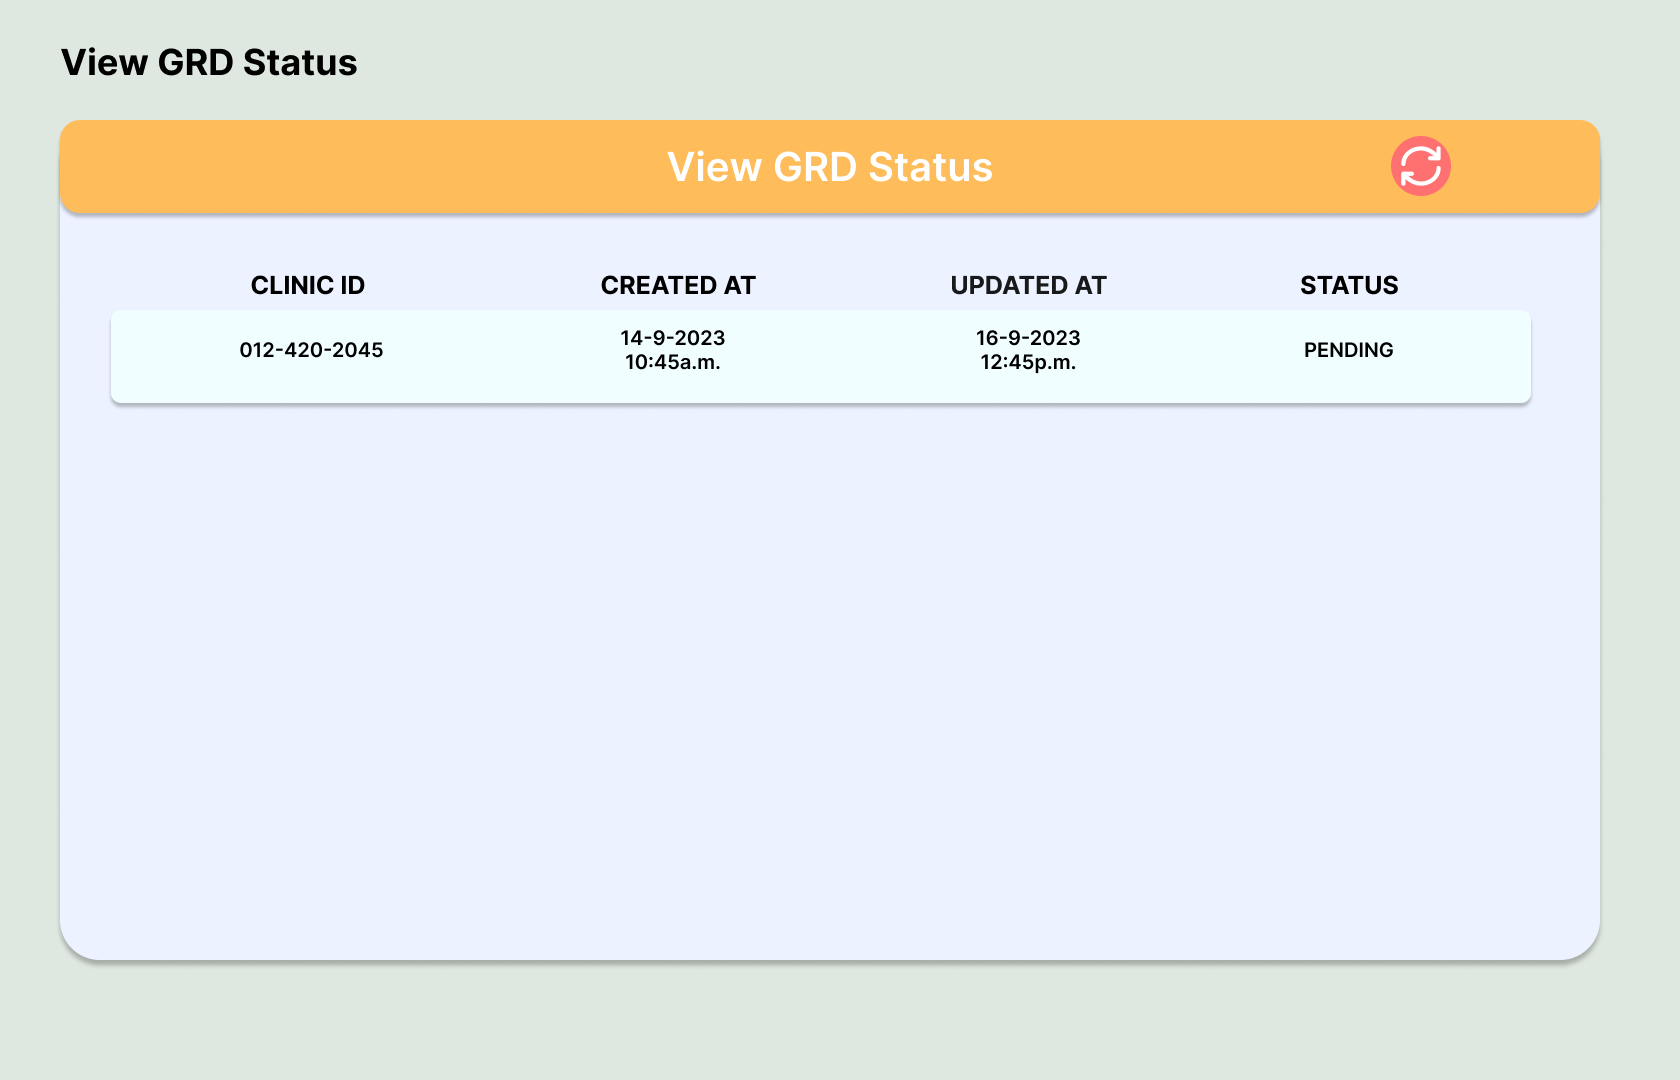
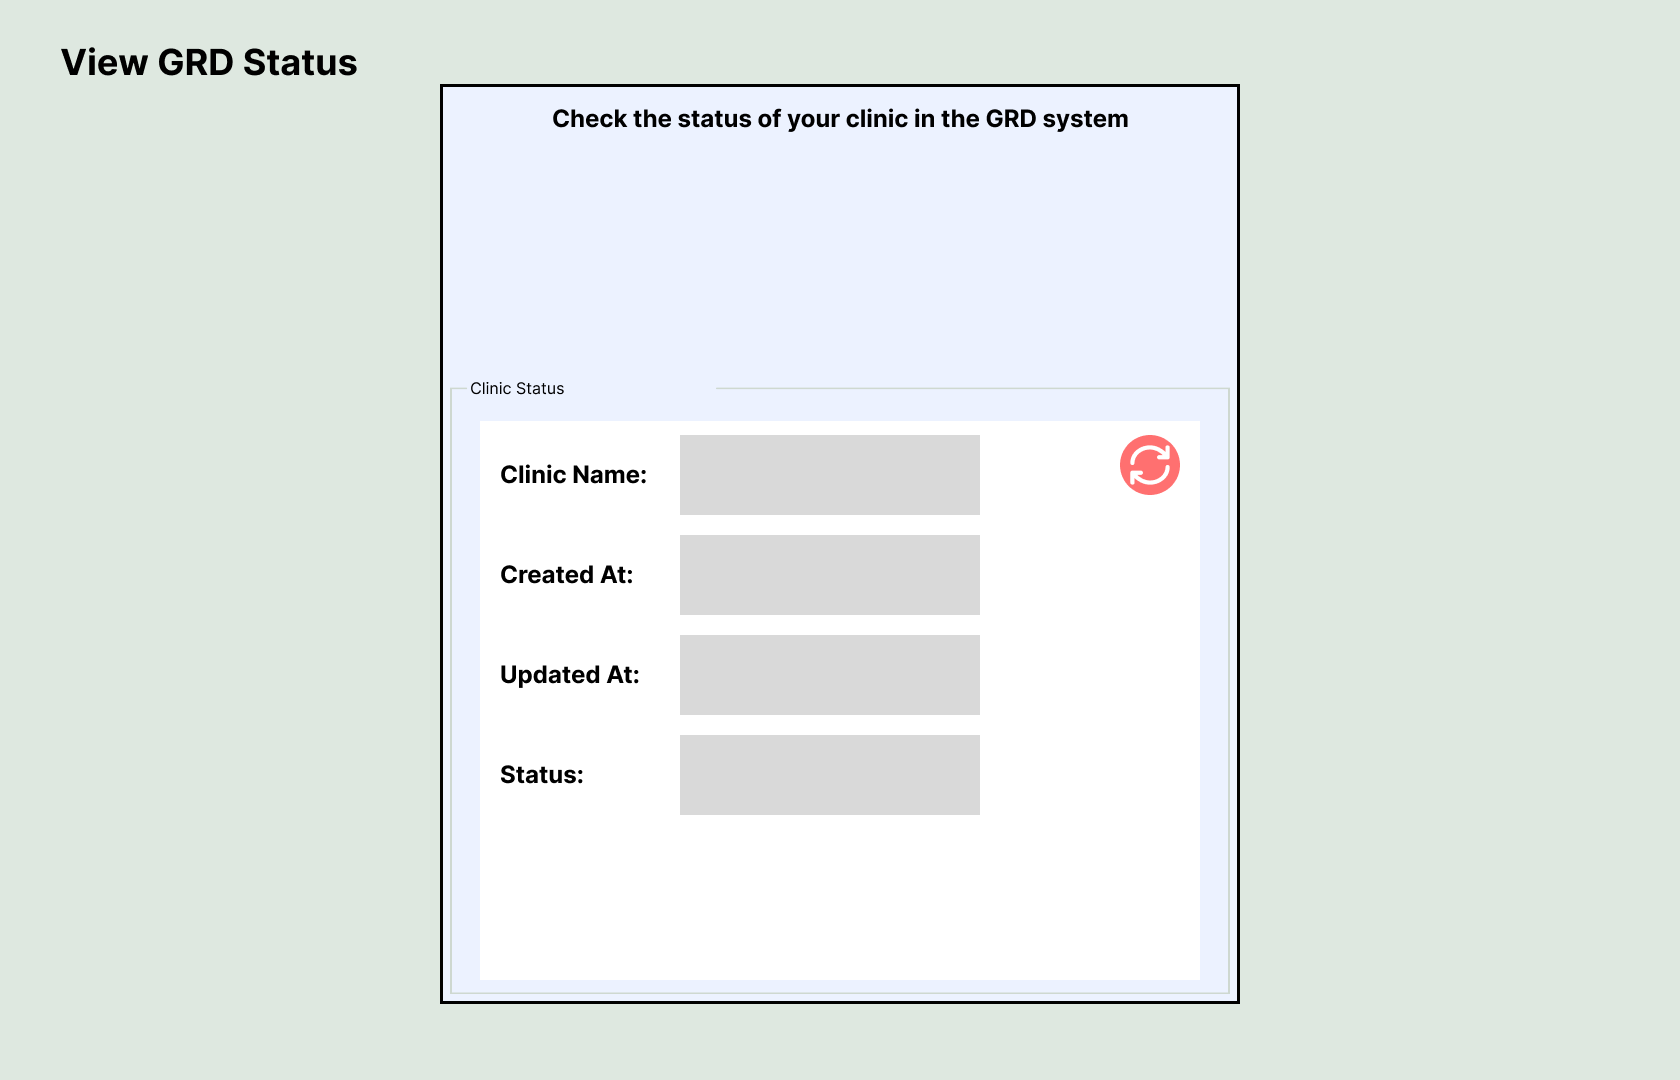
enabled clinic admin grd requests function

diff --git a/views/clinicRequests/adminGRDRequests.py b/views/clinicRequests/adminGRDRequests.py
@@ -30,6 +30,7 @@ class AdminGRDRequest(Frame):
         self.prisma = self.controller.mainPrisma
         self.createFrames()
         self.createElements()
+        self.loadClinicRequestStatus()
 
     def createFrames(self):
         pass
@@ -40,34 +41,94 @@ class AdminGRDRequest(Frame):
             x=0, y=0, classname="grdrequestsbg", root=self
         )
 
+        
+
         self.controller.buttonCreator(
             ipath="assets/Dashboard/ClinicAdminAssets/adminrefreshbtn.png",
-            x=1391, y=136, classname="grdrequestsrefresh", root=self, 
+            x=680+440, y=351+84, classname="grdrequestsrefresh", root=self, 
             buttonFunction=lambda:print("refresh grd requests"), isPlaced=True
         )
 
-        exampleList = []
-        [exampleList.append("Thing " + str(i))
-         for i in range(30) if i % 2 == 0]
-        h = len(exampleList) * 120
-        if h < 600:
-            h = 600
-        self.exampleScrolledFrame = ScrolledFrame(
-            master=self, width=1420, height=h, autohide=True, bootstyle="officer-bg"
-        )
-        self.exampleScrolledFrame.grid_propagate(False)
-        self.exampleScrolledFrame.place(x=100, y=310, width=1450, height=620)
-        initialcoordinates = (20,20)
-        for request in exampleList:
-            x = initialcoordinates[0]
-            y = initialcoordinates[1]
-            self.controller.textElement(
-                ipath=r"assets/Dashboard/ClinicAdminAssets/admingrdrequestsbg.png", x=x, y=y,
-                classname=f"request{request}", root=self.exampleScrolledFrame,
-                text=request, size=30, font=INTER,
-                isPlaced=True,
-            )
+        
 
-            initialcoordinates = (
-                initialcoordinates[0], initialcoordinates[1] + 120
-            )
+    def loadClinicRequestStatus(self):
+        prisma = self.prisma
+        self.clinicstatusdetails = prisma.clinicenrolment.find_first(
+            where={
+                "clinicId": "clo8tu3kq0003tkvgihvp739t",
+            },
+            include={
+                "govRegDocSystem": True,
+                 "clinic": True,
+            },    
+        )
+
+        clinicName = self.clinicstatusdetails.clinic.name
+        createdAt = datetime.strptime(str(self.clinicstatusdetails.createdAt)[:19], '%Y-%m-%d %H:%M:%S')
+        updatedAt = datetime.strptime(str(self.clinicstatusdetails.updatedAt)[:19], '%Y-%m-%d %H:%M:%S')
+        status = self.clinicstatusdetails.status
+
+        self.controller.textElement(
+            ipath="assets/Dashboard/ClinicAdminAssets/clinicstatusfields.png",
+            x=240+440, y=351+84, classname="grdstatusclinicname", root=self,
+            text=clinicName, size=22, font=INTER,
+            isPlaced=True
+        )
+
+        self.controller.textElement(
+            ipath="assets/Dashboard/ClinicAdminAssets/clinicstatusfields.png",
+            x=240+440, y=451+84, classname="grdstatuscreatedat", root=self,
+            text=str(createdAt), size=22, font=INTER,
+            isPlaced=True
+        )
+
+        self.controller.textElement(
+            ipath="assets/Dashboard/ClinicAdminAssets/clinicstatusfields.png",
+            x=240+440, y=551+84, classname="grdstatusupdatedat", root=self,
+            text=str(updatedAt), size=22, font=INTER,
+            isPlaced=True
+        )
+
+        self.controller.textElement(
+            ipath="assets/Dashboard/ClinicAdminAssets/clinicstatusfields.png",
+            x=240+440, y=651+84, classname="grdstatustext", root=self,
+            text=status, size=22, font=INTER,
+            isPlaced=True
+        )
+
+        if status == "ACCEPTED":
+            statusimg = "assets/Dashboard/ClinicAdminAssets/clinicaccepted.png"
+            statustext="Request accepted"
+            statusdes="Your GRD request has been accepted.\nYou can now add doctors to your clinic."
+
+        elif status == "REJECTED":
+            statusimg="assets\Dashboard\ClinicAdminAssets\clinicrejected.png"
+            statustext="Request rejected"
+            statusdes="Your GRD request has been rejected.\nPlease contact the GRD for more info."
+
+        else: 
+            statusimg="assets\Dashboard\ClinicAdminAssets\clinicpending.png"
+            statustext="Request pending"
+            statusdes="Your GRD request is still pending. Check\nback again later for updates."
+
+        self.grdrequeststatus = self.controller.labelCreator(
+            ipath=statusimg,
+            x=350+440, y=77+84, classname="grdrequeststatus", root=self, isPlaced=True
+        )
+
+        self.grdstatustext = self.controller.textElement(
+            ipath="assets/Dashboard/ClinicAdminAssets/requeststatustextbg.png",
+            x=290+440, y=177+84, classname="grdstatus",text=statustext, 
+            size=24, font=INTERBOLD,
+            root=self, isPlaced=True,
+            xoffset=-0.5
+        )
+
+        self.grdstatusdesc = self.controller.textElement(
+            ipath="assets/Dashboard/ClinicAdminAssets/requeststatusdesc.png",
+            x=182+440, y=220+84, classname="grdstatusdesc",
+            text=statusdes,
+            size=22, font=INTER,
+            root=self, isPlaced=True,
+            yIndex=-1
+        )
